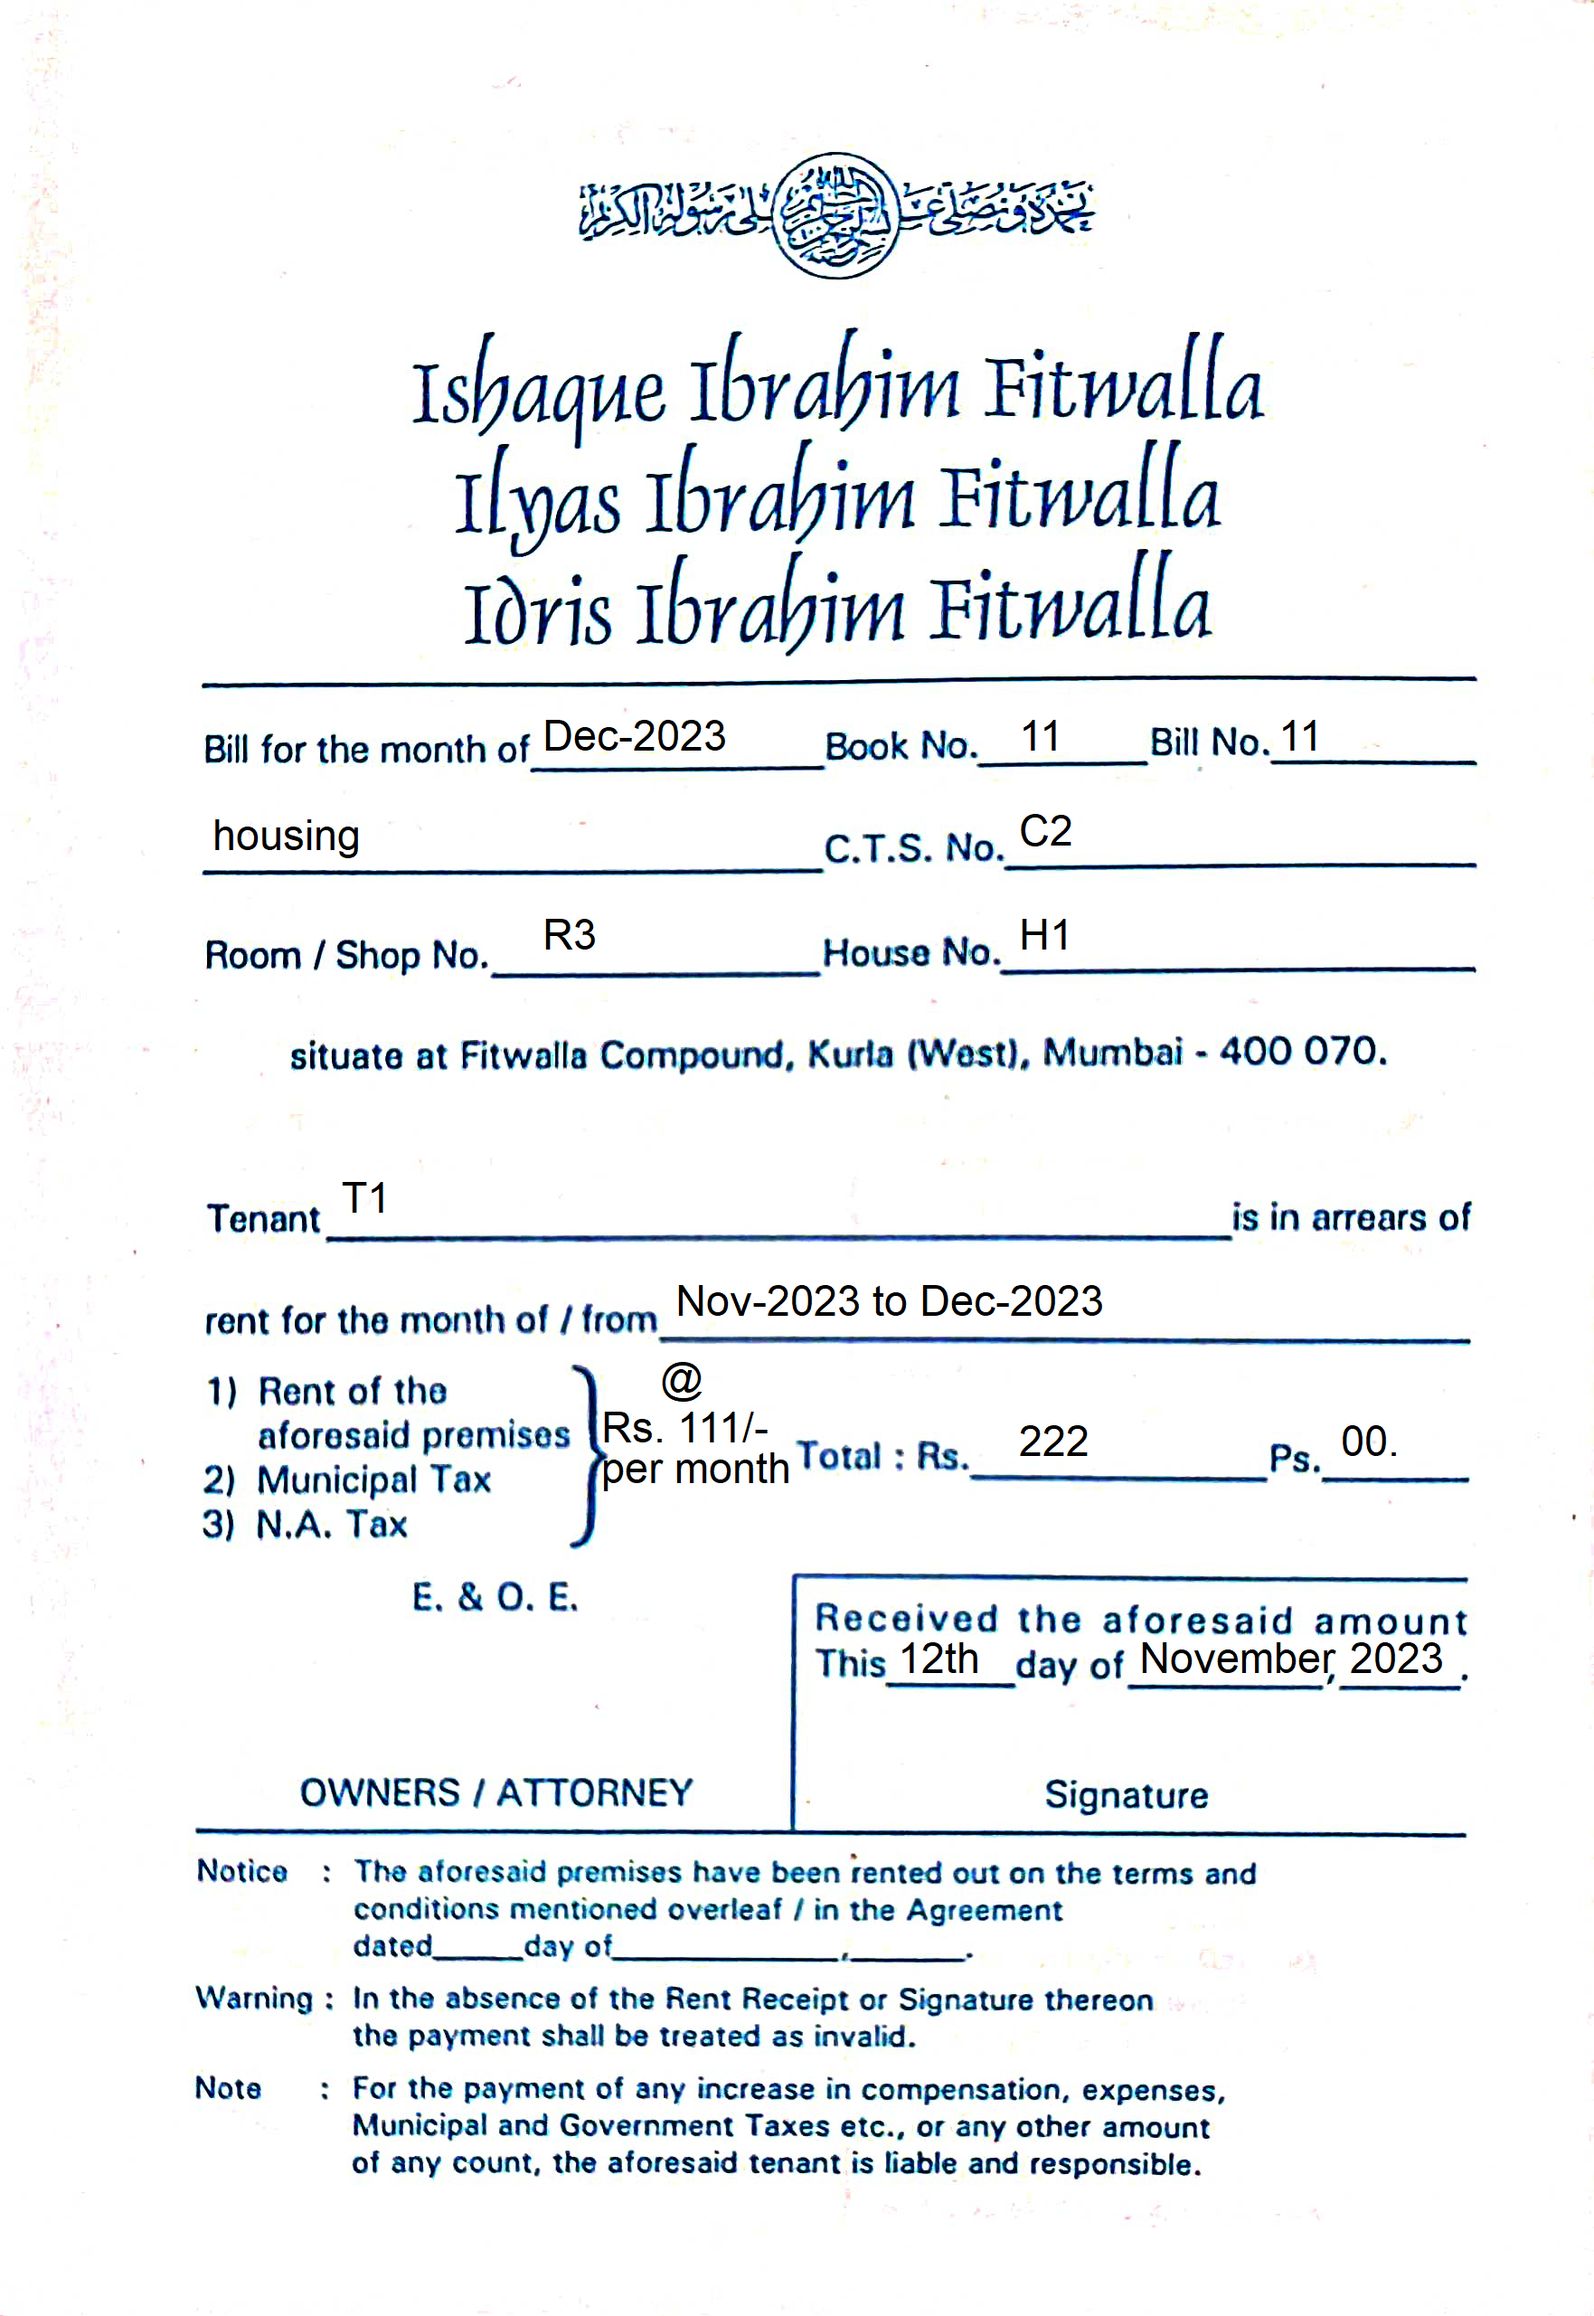
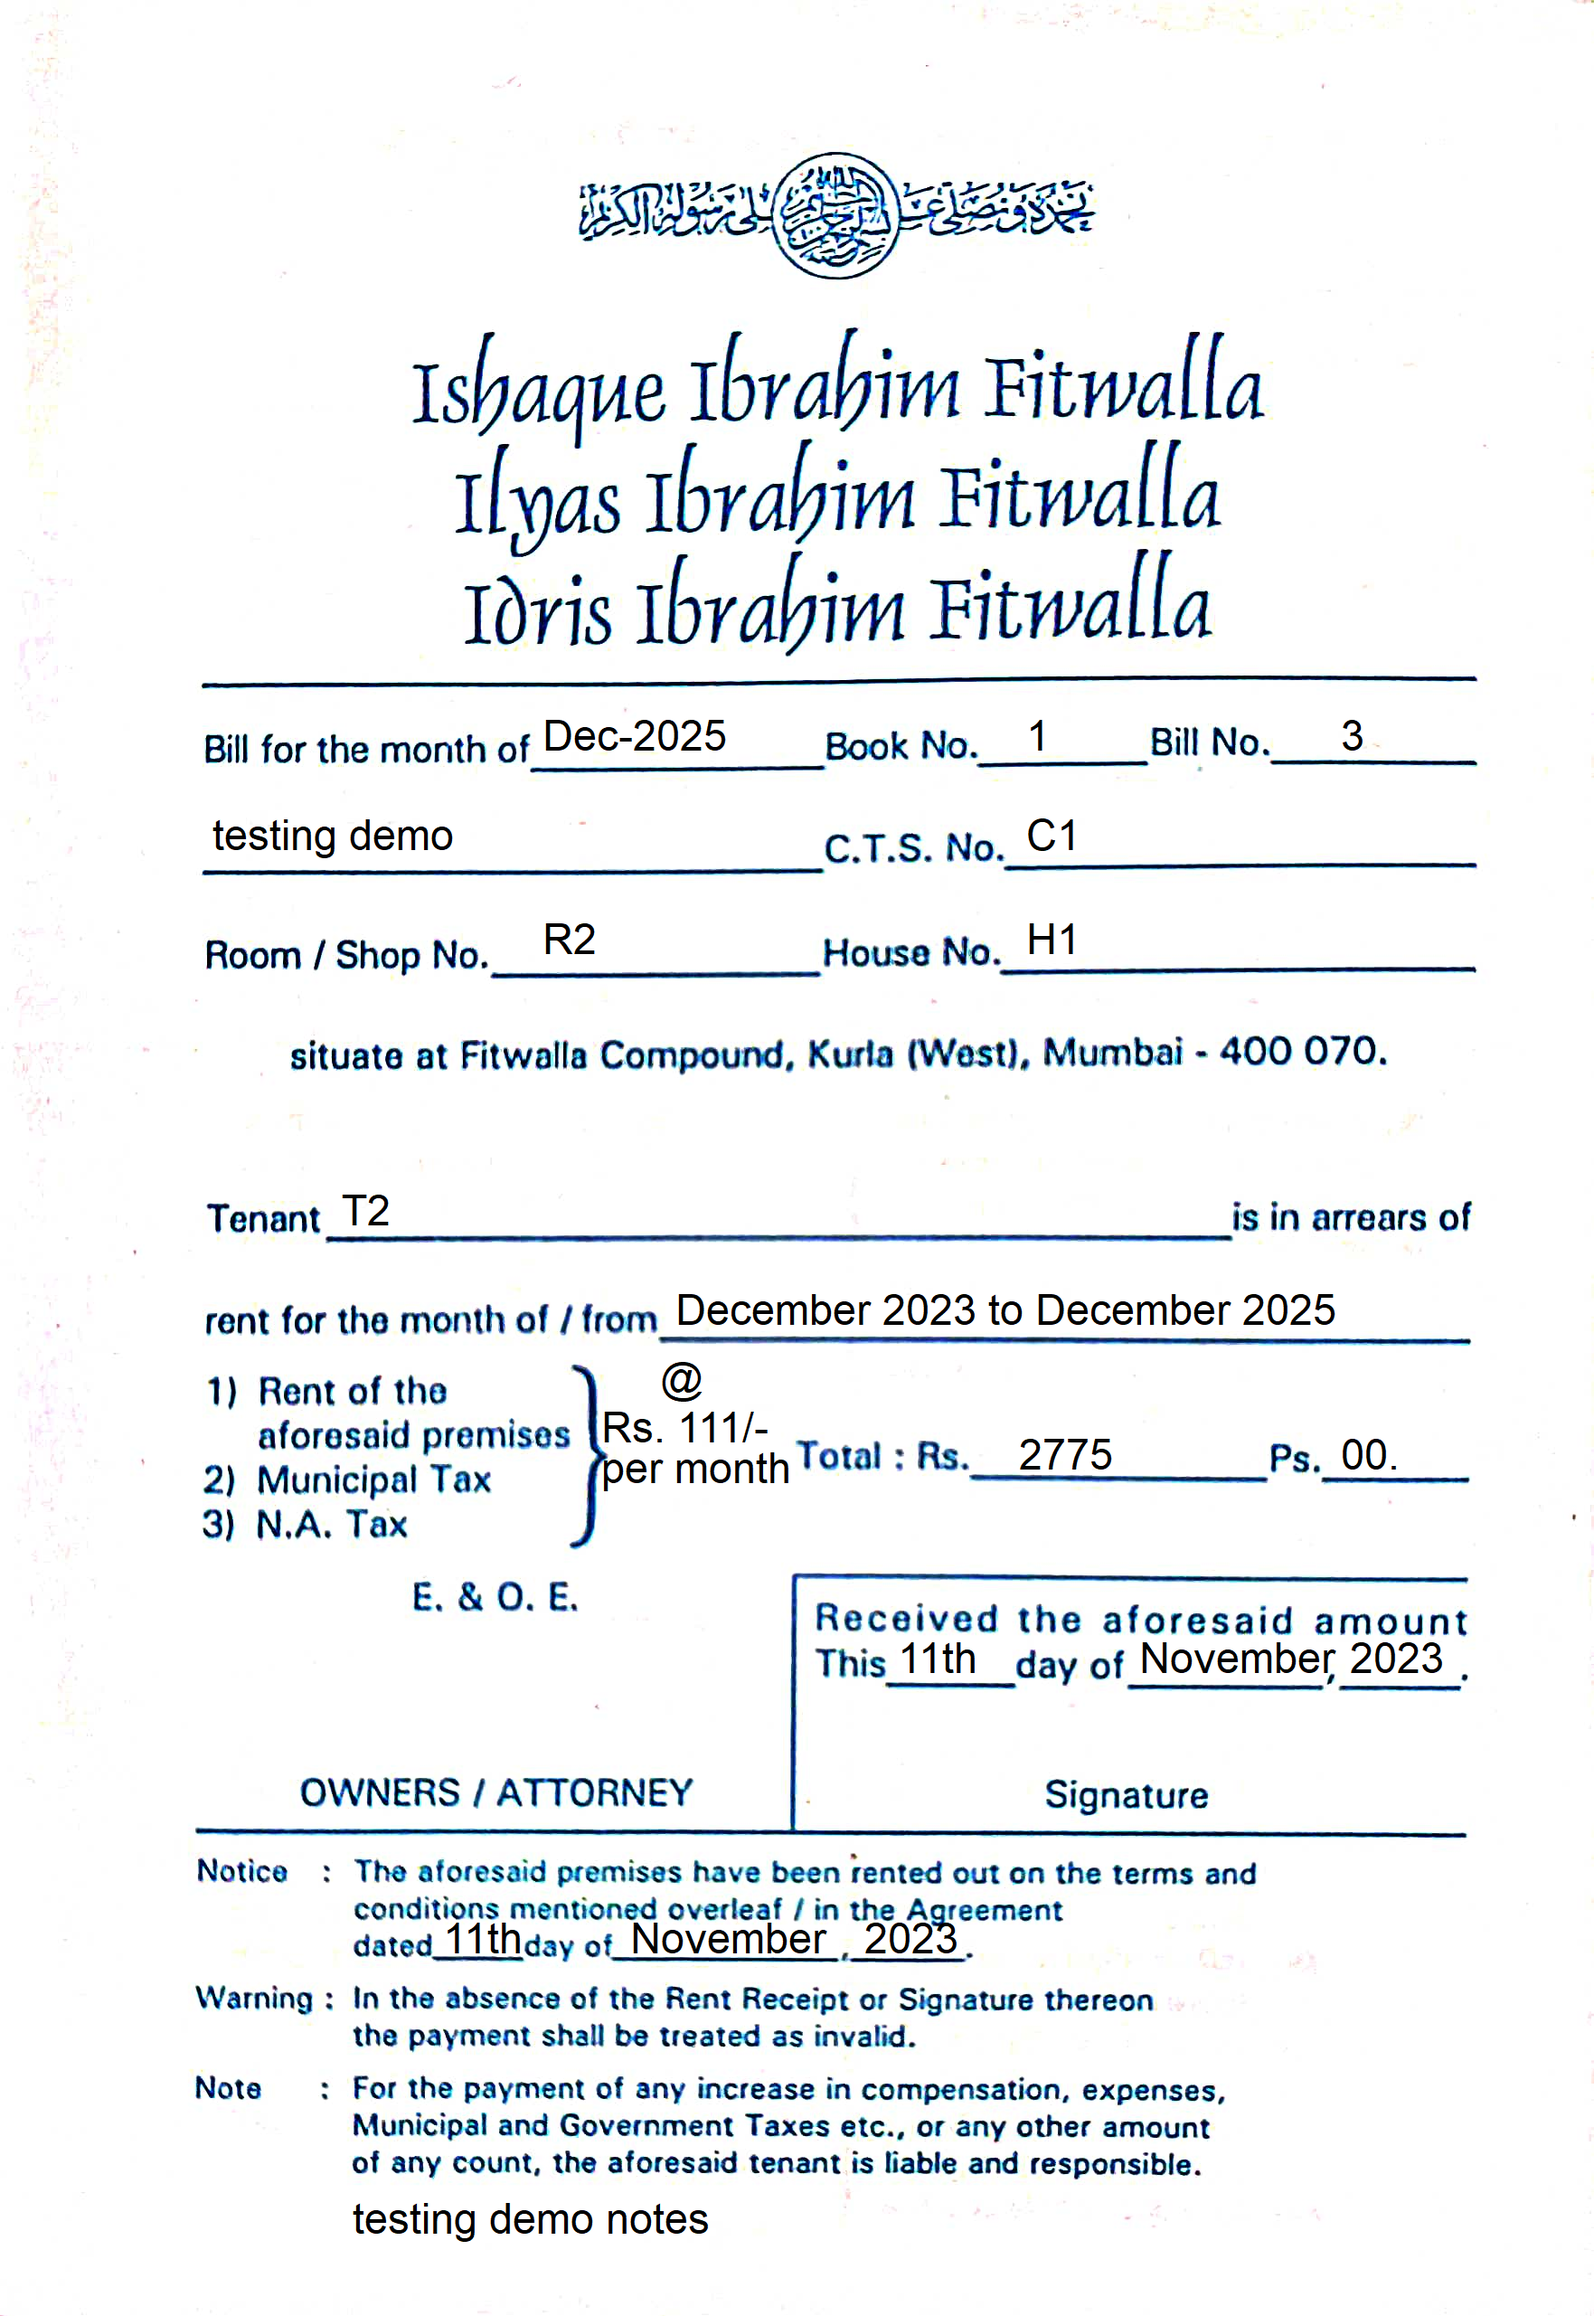
updated print of hardcopies

diff --git a/bill.py b/bill.py
@@ -637,6 +637,9 @@ class BillEntry(BaseWindow):
             self.received_date.date().toString("yyyy-MM-dd"))
         agreement_date_with_ordinal, agreement_month, agreement_year = get_date_month_year(
             self.agreement_date.date().toString("yyyy-MM-dd"))
+        rent_from = convert_date_string(self.rent_from_date.date().toString("MMM-yyyy"))
+        rent_to = convert_date_string(self.rent_to_date.date().toString("MMM-yyyy"))
+        rent_from_to = rent_from + " to " + rent_to
 
         data = {"rent_month": self.rent_month_date.date().toString("MMM-yyyy"),
                 "book_number": self.book_number_line.text(),
@@ -646,8 +649,7 @@ class BillEntry(BaseWindow):
                 "house_number": self.house_number_combo.currentText(),
                 "room_number": self.room_number_combo.currentText(),
                 "tenant_name": tenant_name,
-                "rent_from_to": self.rent_from_date.date().toString(
-                    "MMM-yyyy") + " to " + self.rent_to_date.date().toString("MMM-yyyy"),
+                "rent_from_to": rent_from_to,
                 "total_rupees": self.total_rupees_line.text(),
                 "total_paise": "00.",
                 "@": "@",
@@ -656,10 +658,10 @@ class BillEntry(BaseWindow):
                 "received_date_with_ordinal": received_date_with_ordinal,
                 "received_month": received_month,
                 "received_year": received_year,
-                # "agreement_date_with_ordinal": agreement_date_with_ordinal,
-                # "agreement_month": agreement_month,
-                # "agreement_year": agreement_year,
-                # "notes": self.notes_text.text()
+                "agreement_date_with_ordinal": agreement_date_with_ordinal,
+                "agreement_month": agreement_month,
+                "agreement_year": agreement_year,
+                "notes": self.notes_text.text()
                 }
 
         bill_image_path = r'images/rr_bill.jpg'  # Replace with your image path
@@ -672,46 +674,64 @@ class BillEntry(BaseWindow):
 
         # Define positions for the text fields on the image (these will need to be adjusted)
         positions = {
-            "rent_month": (600, 830),  # Position for "Bill for the month of"
-            "book_number": (1127, 830),  # Position for "Book No."
-            "bill_number": (1414, 830),  # Position for "Bill No."
+            "rent_month": (600, 830),
+            "book_number": (1135, 830),
+            "bill_number": (1483, 830),
             "purpose_for": (235, 940),
-            "cts_number": (1127, 935),
-            "room_number": (600, 1050),
-            "house_number": (1127, 1050),
-            "tenant_name": (378, 1341),
-            "rent_from_to": (747, 1455),
-            "total_rupees": (1127, 1610),
-            "total_paise": (1483, 1610),
+            "cts_number": (1135, 940),
+            "room_number": (600, 1055),
+            "house_number": (1135, 1055),
+            "tenant_name": (378, 1355),
+            "rent_from_to": (747, 1465),
+            "total_rupees": (1127, 1625),
+            "total_paise": (1483, 1625),
             "@": (730, 1540),
             "at_the_rate_of": (665, 1595),
             "per_month": (665, 1640),
             "received_date_with_ordinal": (993, 1850),
             "received_month": (1260, 1850),
             "received_year": (1493, 1850),
-            # "agreement_date_with_ordinal":,
-            # "agreement_month":,
-            # "agreement_year":,
-            # "notes":,
-        }
+            "agreement_date_with_ordinal": (490, 2160),
+            "agreement_month": (697, 2160),
+            "agreement_year": (956, 2160),
+            "notes": (390, 2470)}
 
         for key, value in data.items():
             x, y = positions[key]
             painter.drawText(x, y, value)
             print(x, y, key)
             print('text drawn')
-        painter.end()
 
-        output_image_path = r'output_bill/output_bill_image.png'  # Replace with your desired path
-        bill_image.save(output_image_path)
+        printer = QPrinter(QPrinter.HighResolution)
+        printer.setPageSize(QPrinter.PageSize.A5)
+        printer.setColorMode(QPrinter.Color)
+        printer.setFullPage(False)
+        printer.setOutputFormat(QPrinter.NativeFormat)
 
-        # Optionally, open the image using the default image viewer of the operating system
-        import os
-        os.startfile(output_image_path)
+        # Assuming the printer is already set up correctly, start painting directly
+        painter = QPainter()
+        if painter.begin(printer):
+            rect = painter.viewport()
+            size = bill_image.size()
+            size.scale(rect.size(), Qt.KeepAspectRatio)
+            painter.setViewport(rect.x(), rect.y(), size.width(), size.height())
+            painter.setWindow(bill_image.rect())
+            painter.drawImage(0, 0, bill_image)
+            painter.end()
+        else:
+            print("Failed to start painting on printer.")
 
-        # # Print the image
+        print(f"Printer name: {printer.printerName()}")
+        print(f"Page size: {printer.pageSize()}")
+        print(f"Page rect: {printer.pageRect()}")
+        print(f"Resolution: {printer.resolution()} DPI")
+        print(f"Color mode: {'Color' if printer.colorMode() == QPrinter.Color else 'Grayscale'}")
+        print(f"Is full page: {printer.fullPage()}")
+        print(f"Output format: {printer.outputFormat()}")
+
+        # Print the image
         # printer = QPrinter(QPrinter.HighResolution)
-        # printer.setPageSize(QPrinter.A4)
+        # printer.setPageSize(QPrinter.A5)
         # printer.setColorMode(QPrinter.Color)
         # printer.setFullPage(True)
         #
@@ -738,6 +758,15 @@ def get_date_month_year(user_date):
 
     day_ordinal = str(day) + suffix
     return day_ordinal, date_obj.strftime("%B"), date_obj.strftime("%Y")
+
+
+def convert_date_string(date_string):
+    try:
+        date_obj = datetime.strptime(date_string, "%b-%Y")
+        formatted_date = date_obj.strftime("%B %Y")
+        return formatted_date
+    except ValueError:
+        return None  # Handle invalid date strings gracefully
 
 
 if __name__ == '__main__':
